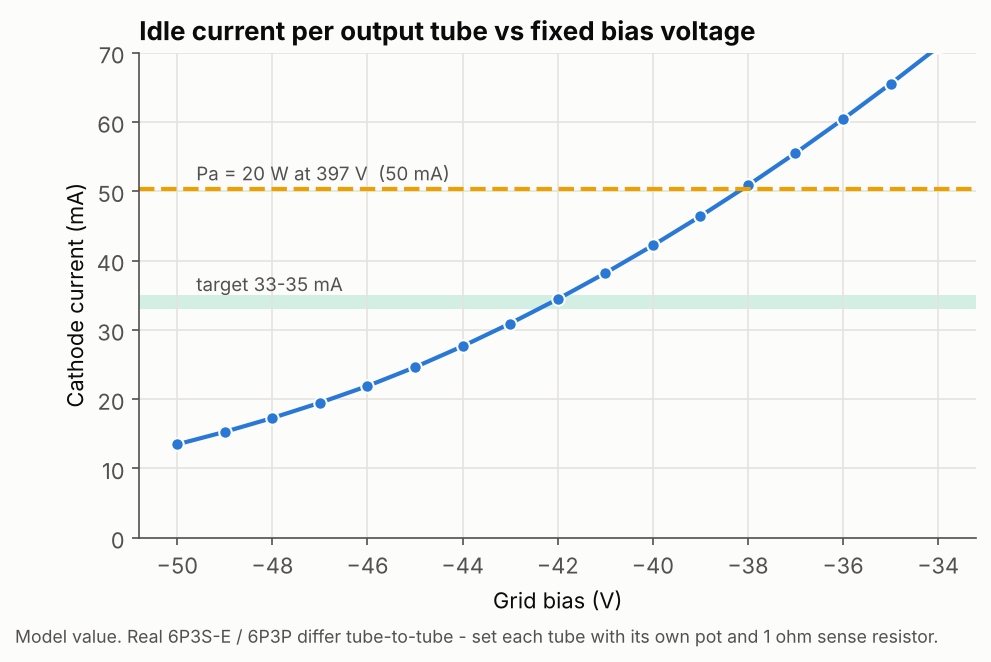
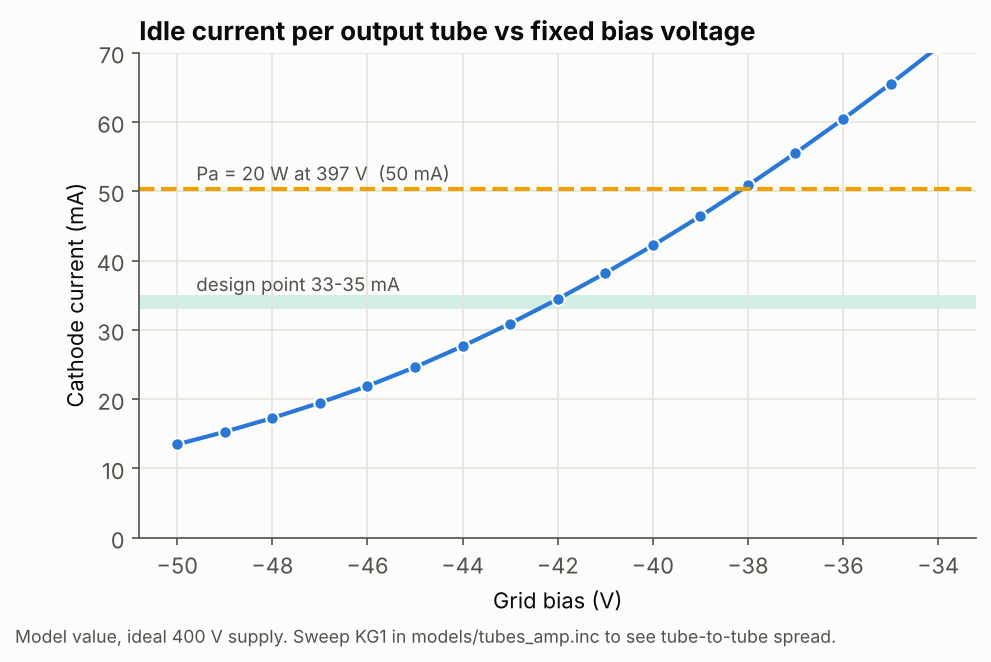
docs: make repo simulation-only, remove hardware build content

Changed region(s): [[0.1211, 0.9366, 0.9384, 0.997], [0.1816, 0.423, 0.3935, 0.4532]]

diff --git a/tools/make_figures.py b/tools/make_figures.py
@@ -222,7 +222,7 @@ def fig3():
            ylabel="Plate current (mA)", xlim=(0, 640))
     ax.legend(loc="upper center", bbox_to_anchor=(0.5, -0.14), ncol=2)
     save(fig, "fig3_6P3S-E_plate.png",
-         "Koren 6L6GC parameters (~10 % hot vs. data sheet). Screen fixed at idle value; real UL screen swings with plate.")
+         "Koren 6L6GC parameters (~10 % hot vs. data sheet). Screen held at idle value here; in the UL circuit it swings with the plate.")
 
 
 def fig4():
@@ -258,7 +258,7 @@ def fig5():
            ylabel="THD (%)", xlim=(0.05, 40))
     ax.legend(loc="upper left")
     save(fig, "fig5_thd_vs_power.png",
-         "Ideal 400 V supply (no PT sag) - real amp will clip earlier, at roughly 20 W.")
+         "Ideal 400 V supply: no transformer sag is modelled yet.")
 
 
 def fig6():
@@ -287,14 +287,14 @@ def fig7():
     ik = np.array(ik)
     fig, ax = plt.subplots(figsize=(7.2, 4.2))
     ax.axhspan(33, 35, color=C3, alpha=0.18, lw=0)
-    ax.text(-49.6, 35.6, "target 33-35 mA", color=INK2, fontsize=9)
+    ax.text(-49.6, 35.6, "design point 33-35 mA", color=INK2, fontsize=9)
     ax.plot(vbs, ik, "o-", color=C1, ms=6, mec=SURF, mew=1)
     ax.axhline(20 / 0.397, color=C4, lw=2, ls="--")
     ax.text(-49.6, 20 / 0.397 + 1.2, "Pa = 20 W at 397 V  (50 mA)", color=INK2, fontsize=9)
     ax.set(title="Idle current per output tube vs fixed bias voltage", xlabel="Grid bias (V)",
            ylabel="Cathode current (mA)", ylim=(0, 70))
     save(fig, "fig7_bias_sweep.png",
-         "Model value. Real 6P3S-E / 6P3P differ tube-to-tube - set each tube with its own pot and 1 ohm sense resistor.")
+         "Model value, ideal 400 V supply. Sweep KG1 in models/tubes_amp.inc to see tube-to-tube spread.")
 
 
 ALL = dict(fig1=fig1, fig2=fig2, fig3=fig3, fig4=fig4, fig5=fig5, fig6=fig6, fig7=fig7)
